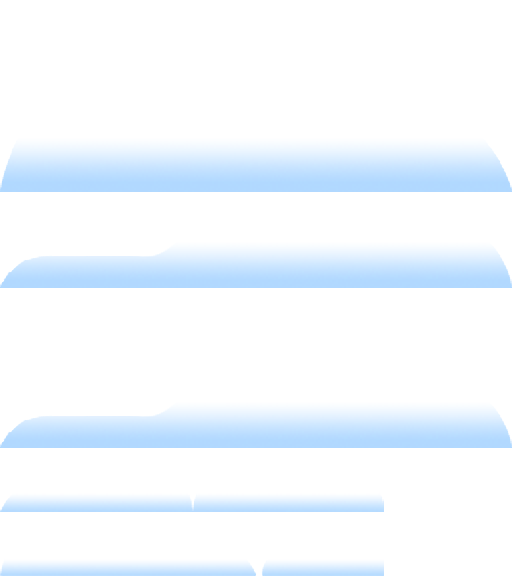
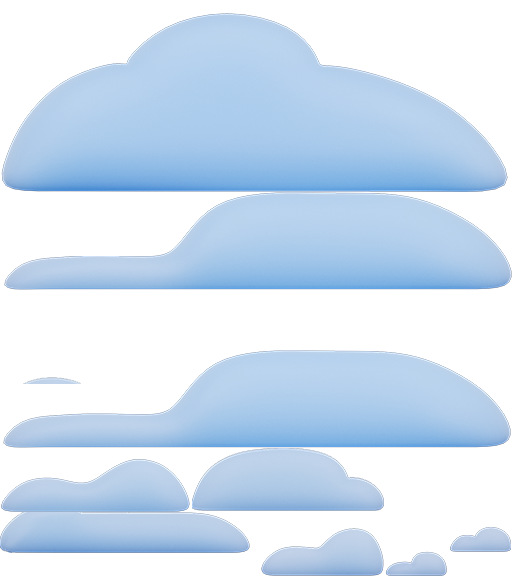
Add files via upload
Tweaked clouds and added slopes

diff --git a/assets/map/tiles/tile_clouds_v02.tsx b/assets/map/tiles/tile_clouds_v02.tsx
@@ -1,4 +1,46 @@
 <?xml version="1.0" encoding="UTF-8"?>
 <tileset version="1.10" tiledversion="1.10.2" name="tile_clouds_v02" tilewidth="64" tileheight="64" tilecount="72" columns="8">
  <image source="tile_clouds_v02.png" width="512" height="576"/>
+ <tile id="26" type="Slope">
+  <properties>
+   <property name="LeftTop" type="int" value="0"/>
+   <property name="RightTop" type="int" value="29"/>
+  </properties>
+ </tile>
+ <tile id="27" type="Slope">
+  <properties>
+   <property name="LeftTop" type="int" value="29"/>
+   <property name="RightTop" type="int" value="64"/>
+  </properties>
+ </tile>
+ <tile id="30" type="Slope">
+  <properties>
+   <property name="LeftTop" type="int" value="64"/>
+   <property name="RightTop" type="int" value="45"/>
+  </properties>
+ </tile>
+ <tile id="31" type="Slope">
+  <properties>
+   <property name="LeftTop" type="int" value="45"/>
+   <property name="RightTop" type="int" value="0"/>
+  </properties>
+ </tile>
+ <tile id="59" type="Slope">
+  <properties>
+   <property name="LeftTop" type="int" value="20"/>
+   <property name="RightTop" type="int" value="64"/>
+  </properties>
+ </tile>
+ <tile id="61" type="Slope">
+  <properties>
+   <property name="LeftTop" type="int" value="64"/>
+   <property name="RightTop" type="int" value="22"/>
+  </properties>
+ </tile>
+ <tile id="67" type="Slope">
+  <properties>
+   <property name="LeftTop" type="int" value="64"/>
+   <property name="RightTop" type="int" value="30"/>
+  </properties>
+ </tile>
 </tileset>
